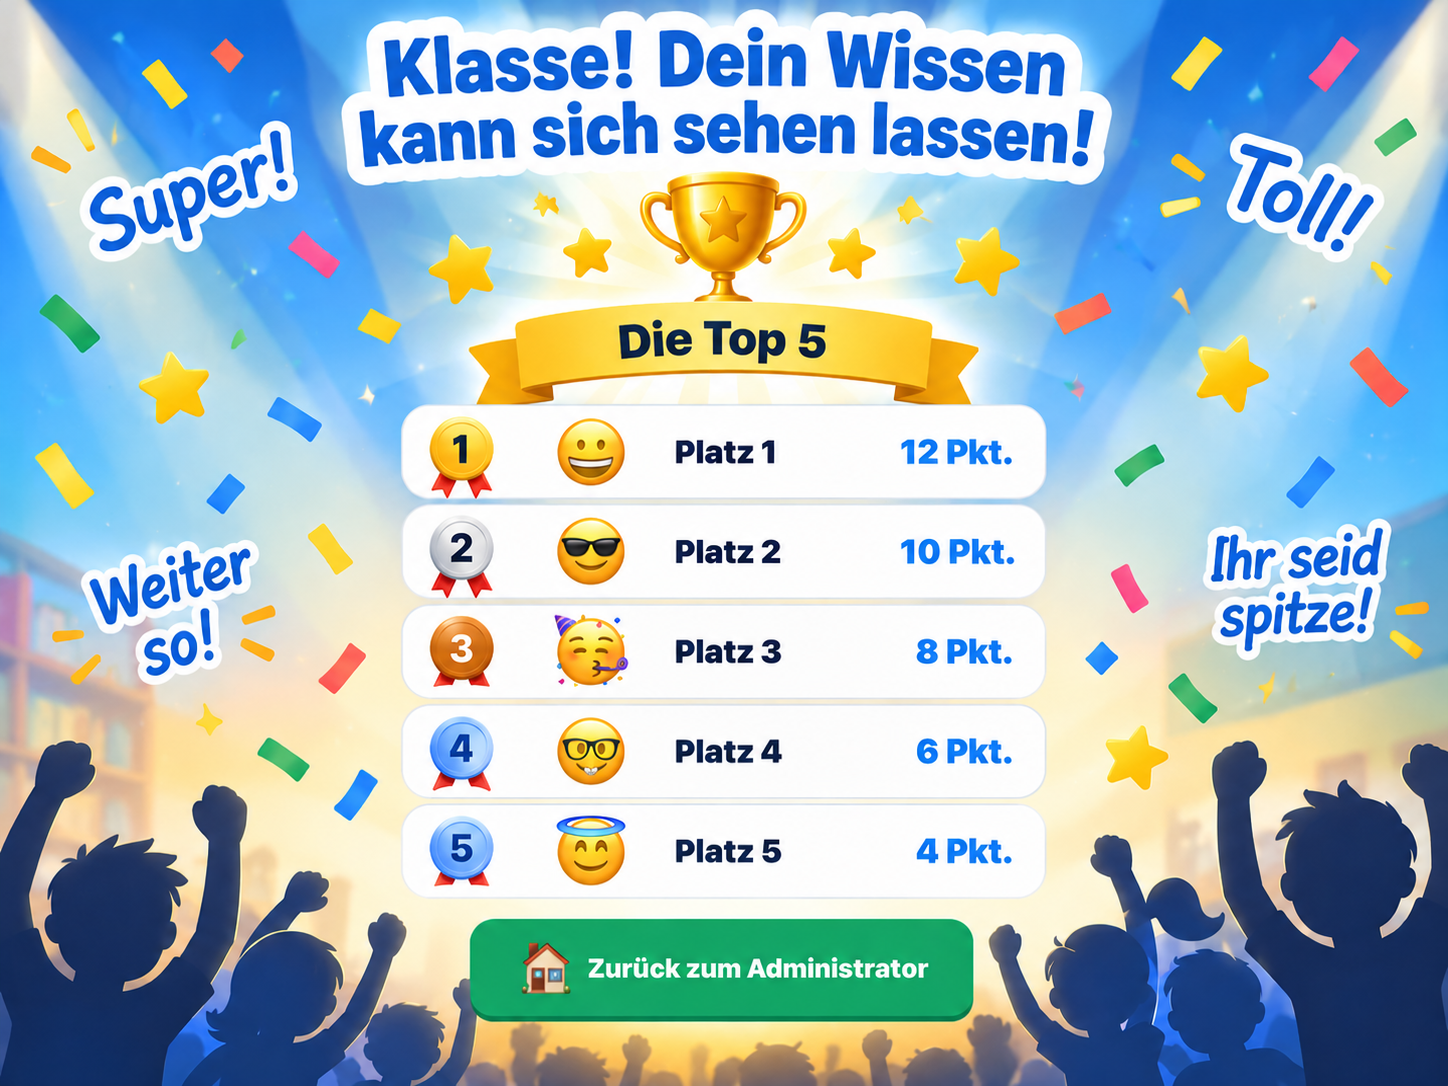
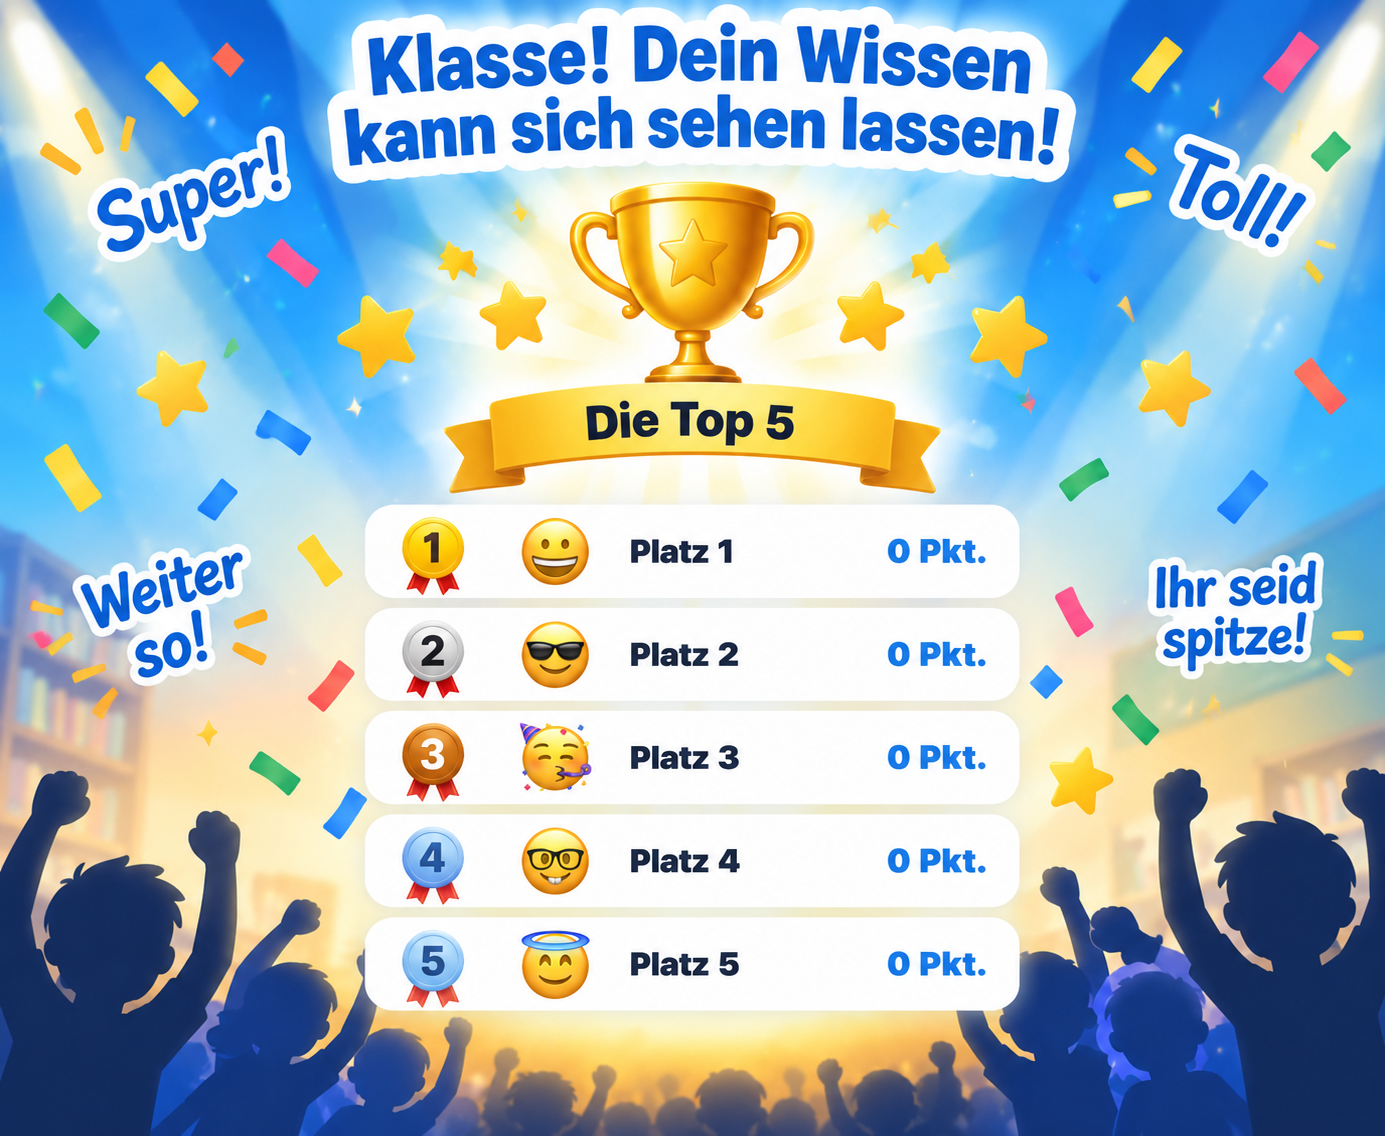
Add files via upload

diff --git a/display.html b/display.html
@@ -119,6 +119,113 @@ body.final-display .homeBtn{display:none!important}
   z-index:10!important;
 }
 </style>
+
+<style id="final-v36">
+/* Exact final leaderboard poster: the artwork supplies the celebration,
+   while the five opaque rows below the trophy are populated live. */
+.main.final-mode{
+  position:relative!important;
+  min-height:650px!important;
+  padding:0!important;
+  margin:0!important;
+  overflow:hidden!important;
+  background:#168eea!important;
+}
+.main.final-mode .finalCelebration{
+  position:absolute!important;
+  inset:0!important;
+  width:100%!important;
+  height:100%!important;
+  min-height:650px!important;
+  background:#168eea url("abschluss-gesamtbewertung.png") center center / 100% 100% no-repeat!important;
+}
+.final-mode .dynamicBoard{
+  position:absolute!important;
+  left:50%!important;
+  top:66%!important;
+  transform:translate(-50%,-50%)!important;
+  width:52%!important;
+  max-width:760px!important;
+  display:flex!important;
+  flex-direction:column!important;
+  gap:10px!important;
+  z-index:20!important;
+}
+.final-mode .dynamicRow{
+  height:clamp(60px,7.0vh,82px)!important;
+  border-radius:24px!important;
+  background:#fff!important;
+  opacity:1!important;
+  border:2px solid rgba(255,255,255,.98)!important;
+  box-shadow:0 7px 18px rgba(30,70,130,.16)!important;
+  display:grid!important;
+  grid-template-columns:72px 82px 1fr 135px!important;
+  align-items:center!important;
+  padding:0 22px 0 12px!important;
+  box-sizing:border-box!important;
+}
+.final-mode .dynamicRank{
+  font-size:clamp(24px,2.2vw,38px)!important;
+  font-weight:950!important;
+  color:#61728c!important;
+  text-align:center!important;
+}
+.final-mode .dynamicEmoji{
+  font-size:clamp(34px,3vw,52px)!important;
+  text-align:center!important;
+}
+.final-mode .dynamicPlace{
+  font-size:clamp(23px,2vw,36px)!important;
+  font-weight:950!important;
+  color:#172238!important;
+}
+.final-mode .dynamicPoints{
+  font-size:clamp(22px,1.9vw,34px)!important;
+  font-weight:950!important;
+  color:#1678db!important;
+  text-align:right!important;
+  white-space:nowrap!important;
+}
+#totalWrap.final-side{
+  display:block!important;
+  height:100%!important;
+}
+#totalWrap.final-side .finalSideHome{
+  height:100%;
+  min-height:650px;
+  display:flex;
+  align-items:center;
+  justify-content:center;
+  padding:20px;
+  box-sizing:border-box;
+}
+#totalWrap.final-side .homeBtn{
+  position:static!important;
+  transform:none!important;
+  width:100%!important;
+  min-width:0!important;
+  margin:0!important;
+}
+</style>
+
+<style id="display-v36">
+body.final-display #main{
+  position:fixed!important; inset:0!important; width:100vw!important; height:100vh!important;
+  max-width:none!important; margin:0!important; padding:0!important; background:#168eea!important;
+}
+body.final-display .finalCelebration{
+  position:fixed!important; inset:0!important; width:100vw!important; height:100vh!important;
+  background:#168eea url("abschluss-gesamtbewertung.png") center center / 100% 100% no-repeat!important;
+}
+body.final-display .dynamicBoard{
+  left:50%!important; top:66%!important; width:47%!important; max-width:760px!important;
+  transform:translate(-50%,-50%)!important; z-index:20!important;
+}
+body.final-display .dynamicRow{
+  background:#fff!important; opacity:1!important;
+}
+body.final-display .homeBtn{display:none!important}
+</style>
 </head><body><div class="wrap"><div class="head"><div class="logo">Antwort!</div><div class="spacer"></div><div class="counter">📷 <span id="count">0</span> Antworten</div></div><main id="main" class="main"></main></div>
 <script src="https://unpkg.com/peerjs@1.5.4/dist/peerjs.min.js"></script><script>
 const KEY='antwort-v4-state',$=id=>document.getElementById(id);let remoteState=null,peer=null,conn=null;
@@ -133,16 +240,14 @@ function render(){const s=get(),q=s?.questions?.find(x=>x.id===s.currentQuestion
    return {...st,points};
  }).sort((a,b)=>b.points-a.points||String(a.id).localeCompare(String(b.id)));
  const top5=totals.slice(0,5);
- $('main').innerHTML=`
-  <div class="finalCelebration" aria-label="Gesamtergebnis">
+ $('main').innerHTML=`<div class="finalCelebration" aria-label="Gesamtergebnis">
    <div class="dynamicBoard">
-    ${top5.map((st,i)=>`
-     <div class="dynamicRow">
+    ${top5.map((st,i)=>`<div class="dynamicRow">
       <div class="dynamicRank">${i+1}.</div>
       <div class="dynamicEmoji">${esc(st.emoji||'👤')}</div>
       <div class="dynamicPlace">Platz ${i+1}</div>
       <div class="dynamicPoints">${st.points} Pkt.</div>
-     </div>`).join('')}
+    </div>`).join('')}
    </div>
   </div>`;
  return;

diff --git a/play.html b/play.html
@@ -224,6 +224,94 @@ body{margin:0;background:var(--bg);color:var(--ink);font-family:-apple-system,Bl
   z-index:10!important;
 }
 </style>
+
+<style id="final-v36">
+/* Exact final leaderboard poster: the artwork supplies the celebration,
+   while the five opaque rows below the trophy are populated live. */
+.main.final-mode{
+  position:relative!important;
+  min-height:650px!important;
+  padding:0!important;
+  margin:0!important;
+  overflow:hidden!important;
+  background:#168eea!important;
+}
+.main.final-mode .finalCelebration{
+  position:absolute!important;
+  inset:0!important;
+  width:100%!important;
+  height:100%!important;
+  min-height:650px!important;
+  background:#168eea url("abschluss-gesamtbewertung.png") center center / 100% 100% no-repeat!important;
+}
+.final-mode .dynamicBoard{
+  position:absolute!important;
+  left:50%!important;
+  top:66%!important;
+  transform:translate(-50%,-50%)!important;
+  width:52%!important;
+  max-width:760px!important;
+  display:flex!important;
+  flex-direction:column!important;
+  gap:10px!important;
+  z-index:20!important;
+}
+.final-mode .dynamicRow{
+  height:clamp(60px,7.0vh,82px)!important;
+  border-radius:24px!important;
+  background:#fff!important;
+  opacity:1!important;
+  border:2px solid rgba(255,255,255,.98)!important;
+  box-shadow:0 7px 18px rgba(30,70,130,.16)!important;
+  display:grid!important;
+  grid-template-columns:72px 82px 1fr 135px!important;
+  align-items:center!important;
+  padding:0 22px 0 12px!important;
+  box-sizing:border-box!important;
+}
+.final-mode .dynamicRank{
+  font-size:clamp(24px,2.2vw,38px)!important;
+  font-weight:950!important;
+  color:#61728c!important;
+  text-align:center!important;
+}
+.final-mode .dynamicEmoji{
+  font-size:clamp(34px,3vw,52px)!important;
+  text-align:center!important;
+}
+.final-mode .dynamicPlace{
+  font-size:clamp(23px,2vw,36px)!important;
+  font-weight:950!important;
+  color:#172238!important;
+}
+.final-mode .dynamicPoints{
+  font-size:clamp(22px,1.9vw,34px)!important;
+  font-weight:950!important;
+  color:#1678db!important;
+  text-align:right!important;
+  white-space:nowrap!important;
+}
+#totalWrap.final-side{
+  display:block!important;
+  height:100%!important;
+}
+#totalWrap.final-side .finalSideHome{
+  height:100%;
+  min-height:650px;
+  display:flex;
+  align-items:center;
+  justify-content:center;
+  padding:20px;
+  box-sizing:border-box;
+}
+#totalWrap.final-side .homeBtn{
+  position:static!important;
+  transform:none!important;
+  width:100%!important;
+  min-width:0!important;
+  margin:0!important;
+}
+</style>
 </head>
 <body>
 <header class="top">
@@ -350,36 +438,30 @@ function renderTotal(s){
 
  const main=document.querySelector('.main');
  if(!main)return;
-
  main.classList.add('final-mode');
+
  ['phase','question','answers','instruction','control','stateText','action','feedback'].forEach(id=>{
-   const el=$(id);
-   if(el) el.style.display='none';
+   const el=$(id); if(el) el.style.display='none';
  });
 
  const totalWrap=$('totalWrap');
  if(totalWrap){
    totalWrap.className='final-side';
    totalWrap.style.display='block';
-   totalWrap.innerHTML=`
-    <div class="finalSideHome">
-      <button class="homeBtn" id="finalHomeBtn" type="button">🏠 Zurück zum Administrator</button>
-    </div>`;
+   totalWrap.innerHTML=`<div class="finalSideHome"><button class="homeBtn" id="finalHomeBtn" type="button">🏠 Zurück zum Administrator</button></div>`;
    $('finalHomeBtn').onclick=()=>location.href='index.html';
  }
 
  const board=document.createElement('div');
  board.className='finalCelebration';
- board.innerHTML=`
-   <div class="dynamicBoard">
-    ${top5.map((x,i)=>`
-      <div class="dynamicRow">
-       <div class="dynamicRank">${i+1}.</div>
-       <div class="dynamicEmoji">${esc(x.emoji||'👤')}</div>
-       <div class="dynamicPlace">Platz ${i+1}</div>
-       <div class="dynamicPoints">${x.points} Pkt.</div>
-      </div>`).join('')}
-   </div>`;
+ board.innerHTML=`<div class="dynamicBoard">
+ ${top5.map((x,i)=>`<div class="dynamicRow">
+   <div class="dynamicRank">${i+1}.</div>
+   <div class="dynamicEmoji">${esc(x.emoji||'👤')}</div>
+   <div class="dynamicPlace">Platz ${i+1}</div>
+   <div class="dynamicPoints">${x.points} Pkt.</div>
+ </div>`).join('')}
+ </div>`;
  main.innerHTML='';
  main.appendChild(board);
 }

diff --git a/README.md b/README.md
@@ -212,3 +212,11 @@ Das iPhone dient ausschließlich zum Scannen der Kinderkarten.
 - Das Hintergrundbild wurde deshalb technisch bereinigt: Die statischen Top-5-Zeilen wurden entfernt.
 - Jetzt wird **nur noch die echte dynamische Top-5** angezeigt.
 - Die rechte Spalte enthält weiterhin nur den Home-Button.
+
+
+## v36 – finales Jubelbild passend eingebaut
+- Das neue Jubelbild wurde als offizieller Abschluss-Hintergrund übernommen.
+- Die dynamische Top-5 liegt **direkt unter dem Pokal** an der vorgesehenen Stelle.
+- Die Ergebniszeilen sind vollständig deckend, damit keine statische Beispielwertung aus dem Bild durchscheint.
+- Rechts im Mac-Steuerungsfenster bleibt ausschließlich der Home-Button.
+- Im AirPlay-Display gibt es keinen Home-Button.
